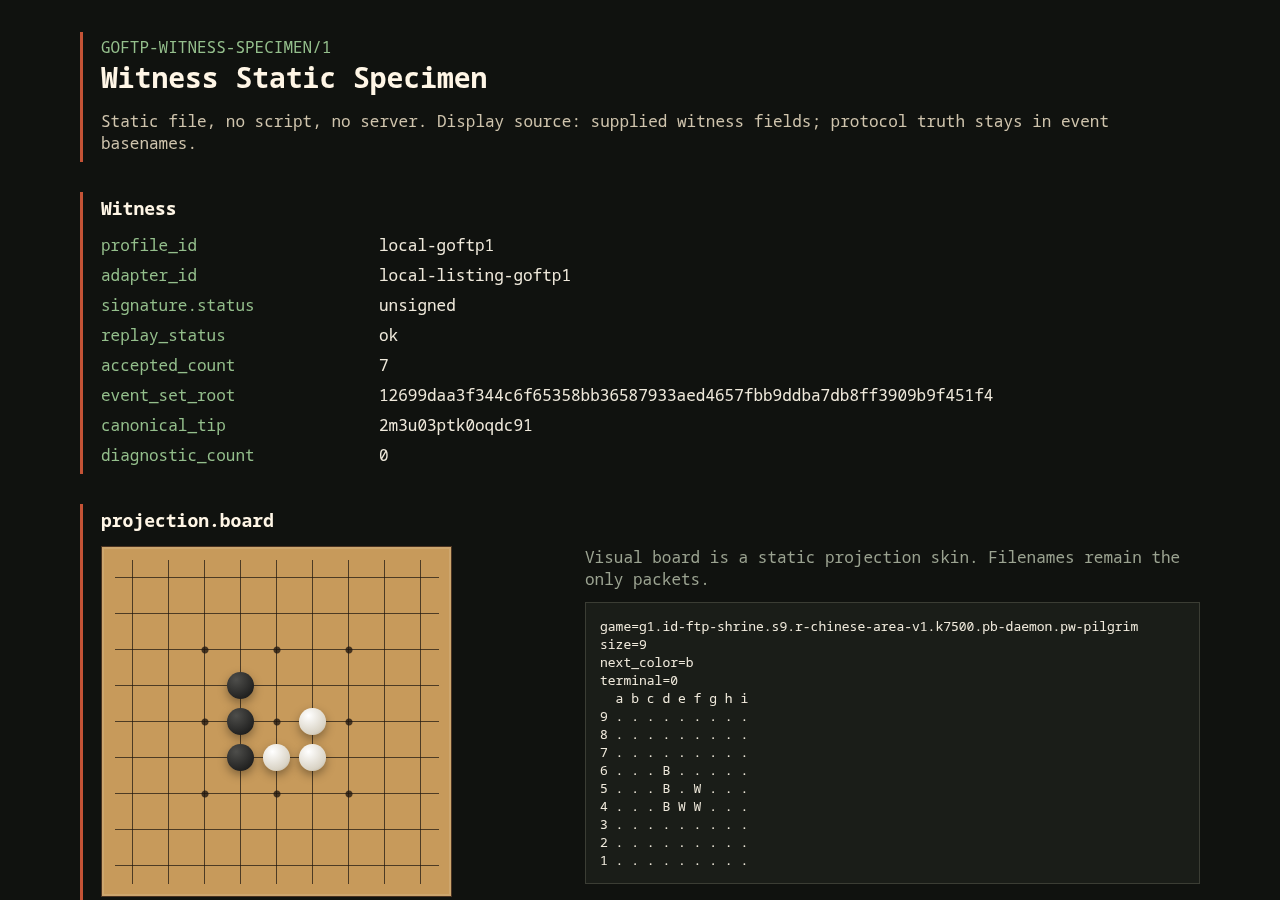
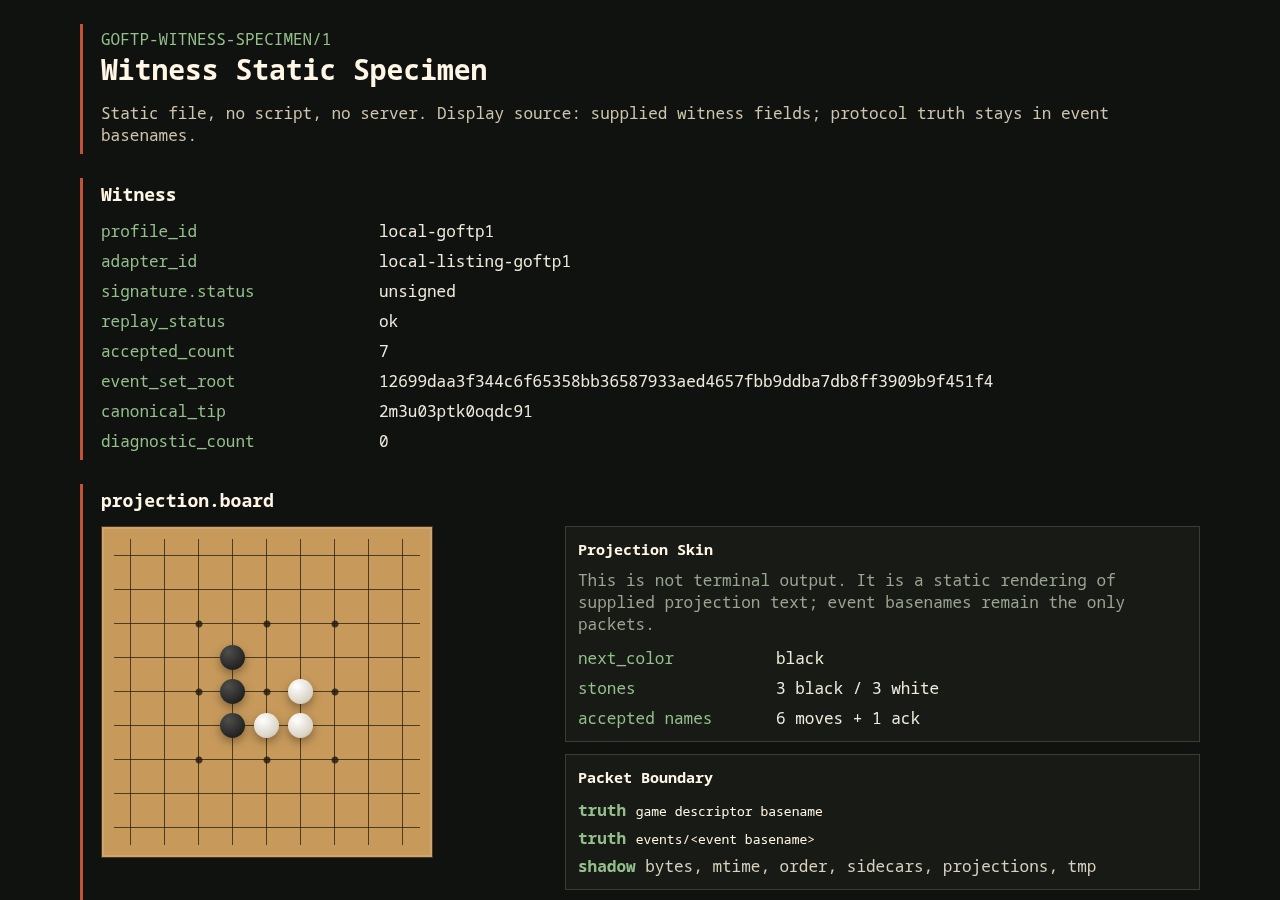
docs: refresh static witness specimen panel

diff --git a/examples/static/witness-specimen.html b/examples/static/witness-specimen.html
@@ -18,13 +18,13 @@ body {
 main {
   width: min(1120px, calc(100% - 32px));
   margin: 0 auto;
-  padding: 32px 0 44px;
+  padding: 24px 0 36px;
 }
 header,
 section,
 footer {
   border-left: 3px solid #c45336;
-  margin: 0 0 30px;
+  margin: 0 0 24px;
   padding: 4px 0 8px 18px;
 }
 .eyebrow,
@@ -44,6 +44,11 @@ h1 {
 h2 {
   font-size: 18px;
 }
+h3 {
+  color: #fff6e6;
+  font-size: 15px;
+  margin: 0 0 10px;
+}
 p {
   color: #cfc4ad;
   margin: 0;
@@ -60,13 +65,13 @@ dd {
 }
 .board-wrap {
   display: grid;
-  grid-template-columns: minmax(320px, 460px) minmax(0, 1fr);
+  grid-template-columns: minmax(300px, 440px) minmax(0, 1fr);
   gap: 24px;
   align-items: start;
 }
 .goban {
   --board-size: 9;
-  --cell: clamp(24px, 5vw, 36px);
+  --cell: clamp(22px, 5vw, 34px);
   display: grid;
   grid-template-columns: repeat(var(--board-size), var(--cell));
   grid-template-rows: repeat(var(--board-size), var(--cell));
@@ -119,6 +124,36 @@ dd {
 .projection-copy {
   min-width: 0;
 }
+.proof-panel {
+  display: grid;
+  gap: 12px;
+}
+.proof-card {
+  border: 1px solid #3b3d34;
+  background: #171a15;
+  padding: 12px;
+}
+.proof-card dl {
+  grid-template-columns: minmax(120px, 180px) minmax(0, 1fr);
+  margin-top: 12px;
+}
+.proof-card dt,
+.packet-list strong {
+  color: #94bf8c;
+}
+.packet-list {
+  display: grid;
+  gap: 6px;
+  list-style: none;
+  margin: 12px 0 0;
+  padding: 0;
+}
+.packet-list li {
+  color: #d9d0be;
+}
+.packet-list code {
+  color: #fff6e6;
+}
 pre {
   margin: 0;
   max-width: 100%;
@@ -130,6 +165,10 @@ pre {
 }
 .projection-copy pre {
   margin-top: 12px;
+}
+.projection-raw {
+  font-size: 13px;
+  line-height: 1.45;
 }
 .boundary-note,
 footer {
@@ -255,8 +294,27 @@ footer {
 <span class="board-point" data-point="ii"></span>
 </div>
 <div class="projection-copy">
-<p class="boundary-note">Visual board is a static projection skin. Filenames remain the only packets.</p>
-<pre>game=g1.id-ftp-shrine.s9.r-chinese-area-v1.k7500.pb-daemon.pw-pilgrim
+<div class="proof-panel">
+<div class="proof-card">
+<h3>Projection Skin</h3>
+<p class="boundary-note">This is not terminal output. It is a static rendering of supplied projection text; event basenames remain the only packets.</p>
+<dl>
+<dt>next_color</dt><dd>black</dd>
+<dt>stones</dt><dd>3 black / 3 white</dd>
+<dt>accepted names</dt><dd>6 moves + 1 ack</dd>
+</dl>
+</div>
+<div class="proof-card">
+<h3>Packet Boundary</h3>
+<ul class="packet-list">
+<li><strong>truth</strong> <code>game descriptor basename</code></li>
+<li><strong>truth</strong> <code>events/&lt;event basename&gt;</code></li>
+<li><strong>shadow</strong> bytes, mtime, order, sidecars, projections, tmp</li>
+</ul>
+</div>
+<div class="proof-card">
+<h3>Raw Projection Witness</h3>
+<pre class="projection-raw">game=g1.id-ftp-shrine.s9.r-chinese-area-v1.k7500.pb-daemon.pw-pilgrim
 size=9
 next_color=b
 terminal=0
@@ -270,6 +328,7 @@ terminal=0
 3 . . . . . . . . .
 2 . . . . . . . . .
 1 . . . . . . . . .</pre>
+</div>
 </div>
 </div>
 </section>

diff --git a/README.md b/README.md
@@ -67,7 +67,7 @@ confirms; input locks while publishing.
 
 ### Static Specimen, Not Hosted UI
 
-![GobanFTP static witness specimen showing a visual 9x9 board and raw projection text.](docs/assets/readme-03-witness-specimen.png)
+![GobanFTP static witness specimen showing a visual 9x9 board and proof panel.](docs/assets/readme-03-witness-specimen.png)
 
 The static witness specimen is a direct-open file: no script, no server, no
 hosted Web UI. It displays supplied witness fields and projection text; protocol
